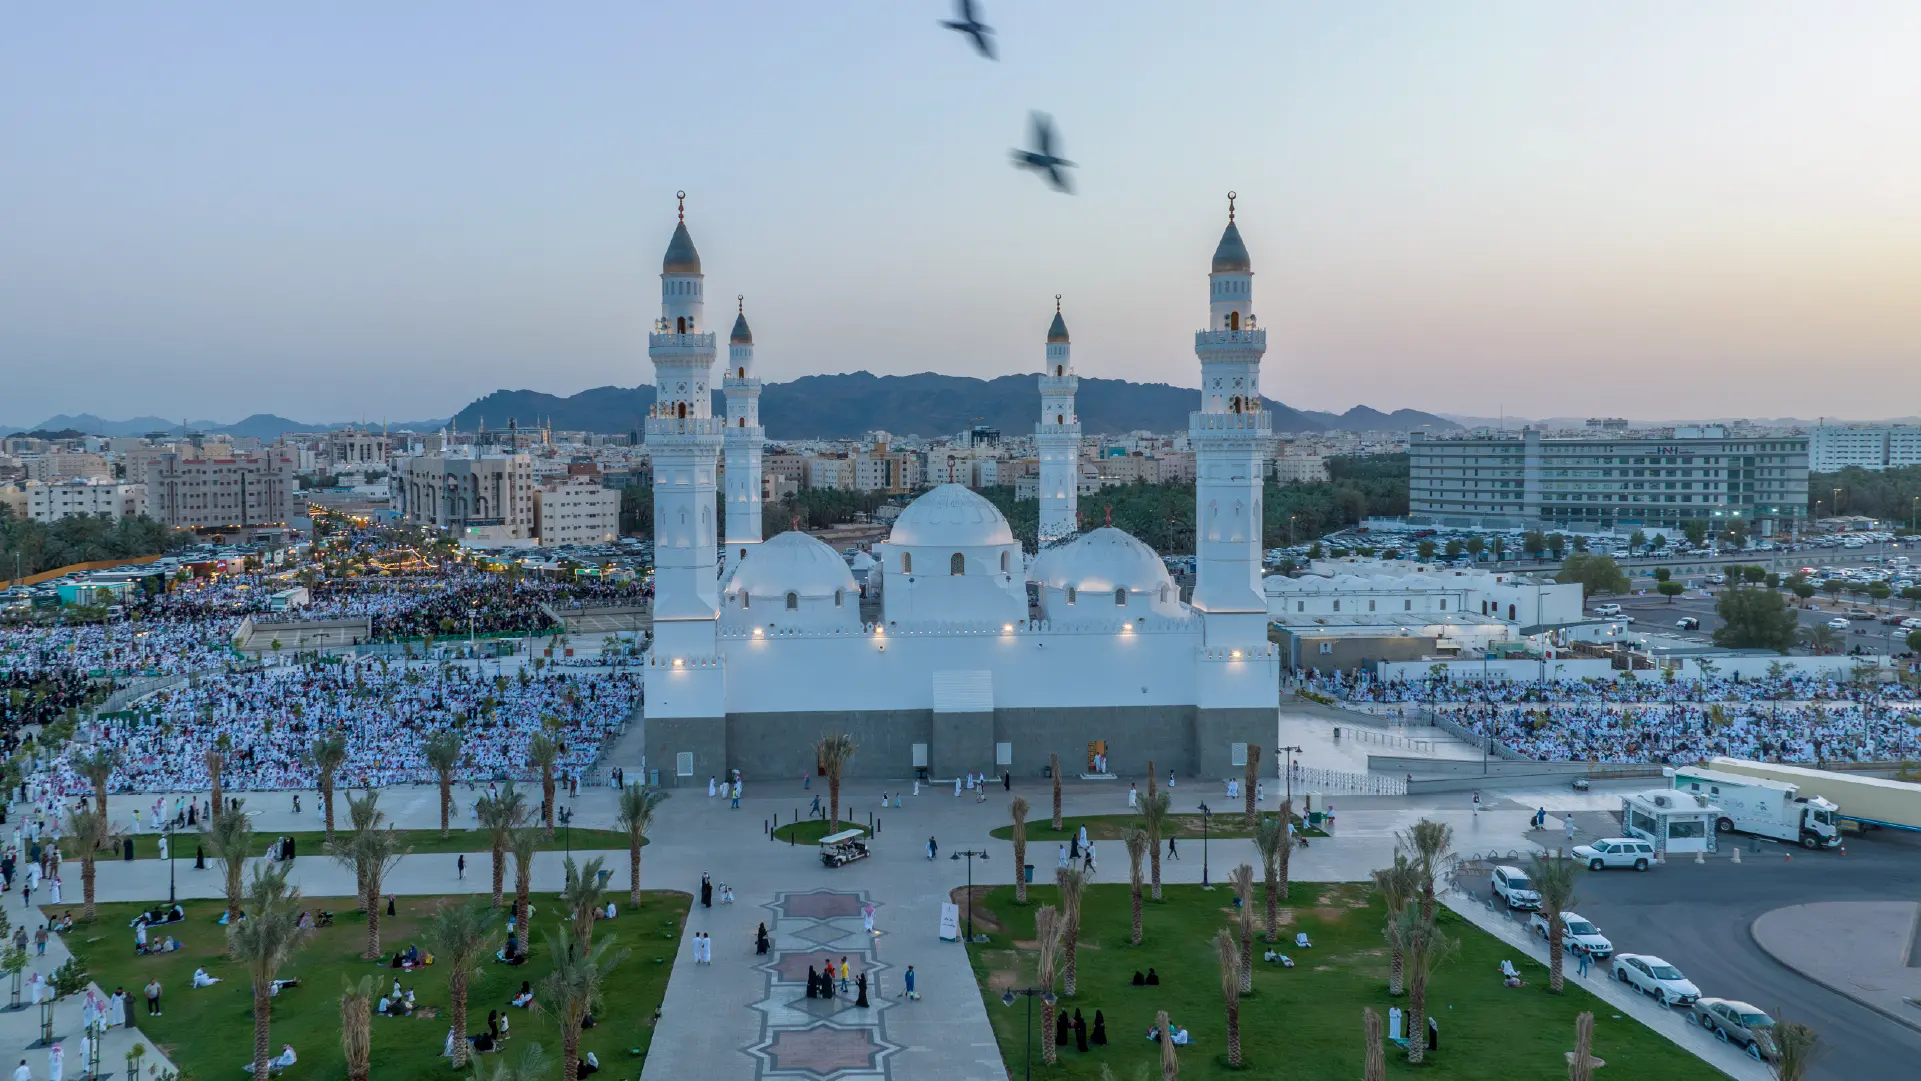
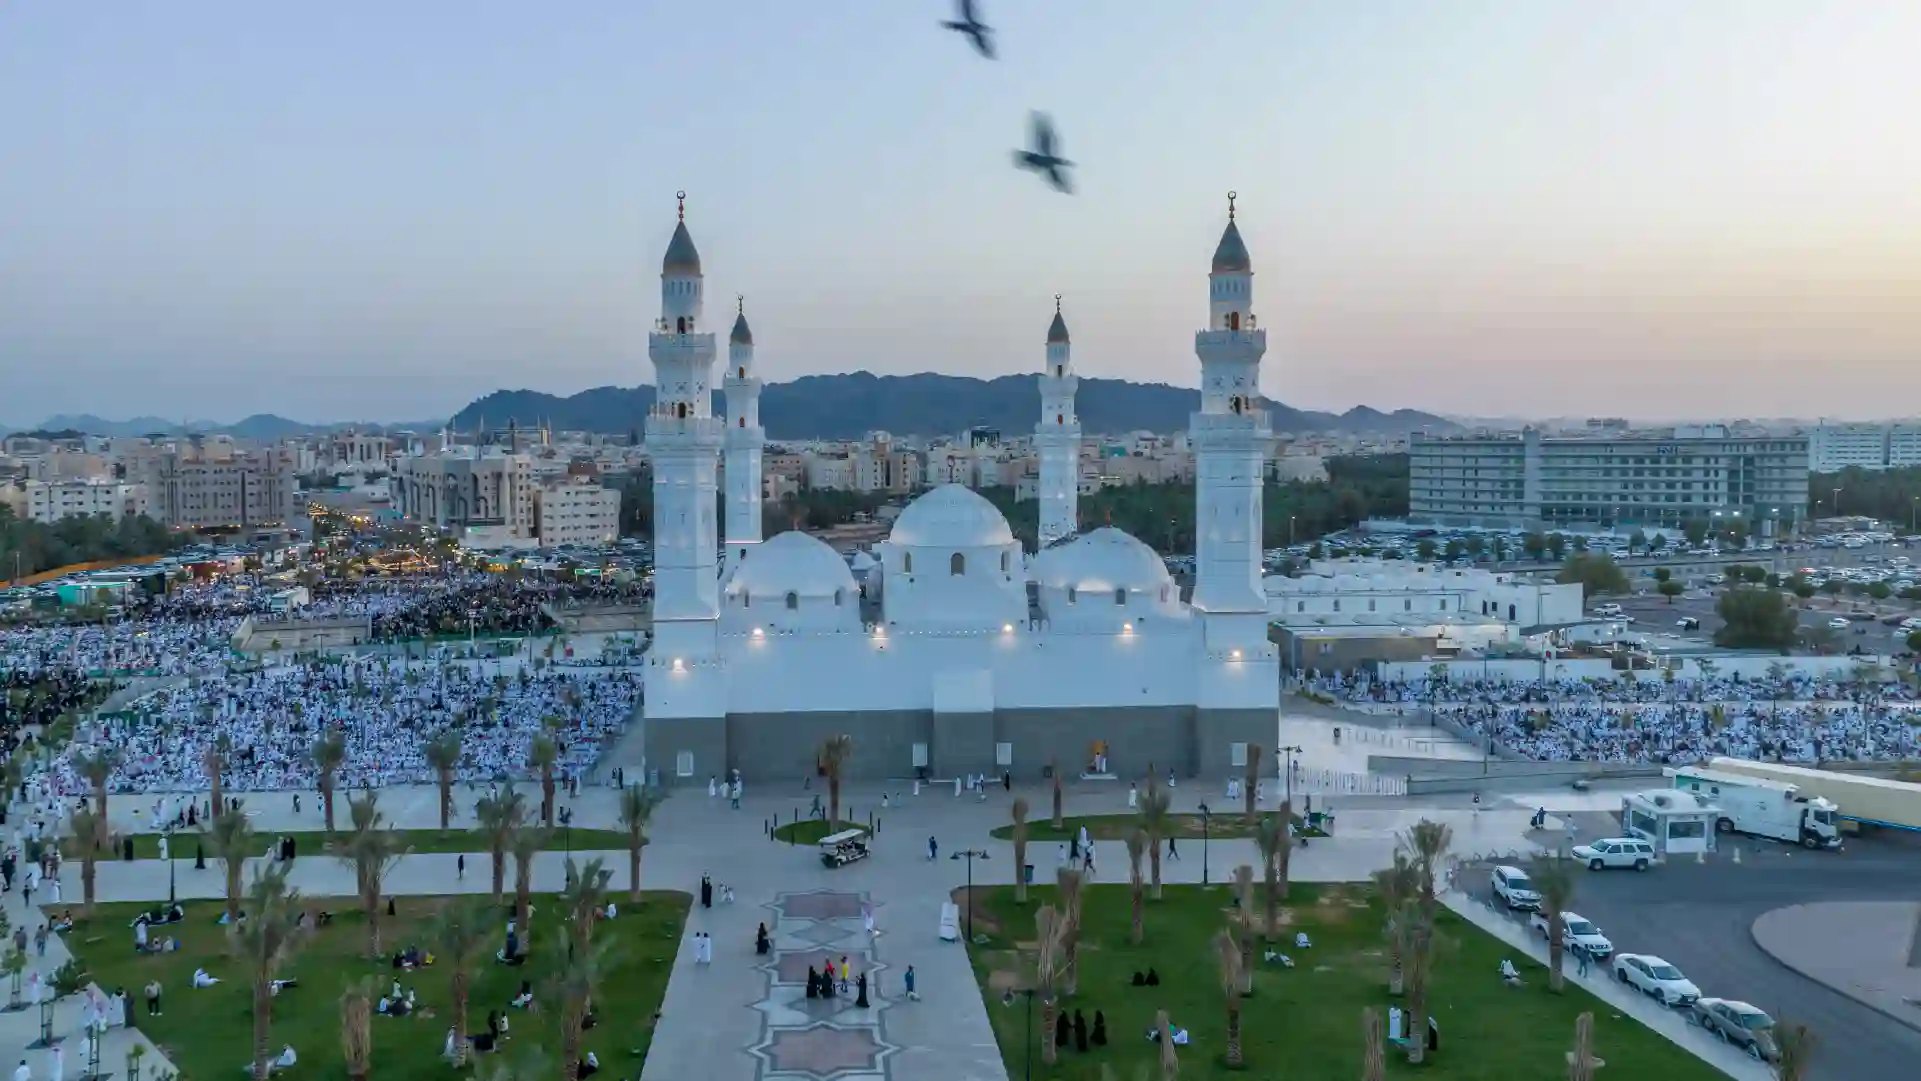
reduce more img

diff --git a/src/app/page.tsx b/src/app/page.tsx
@@ -47,11 +47,11 @@ const Latest = dynamic(() => import("../components/home/Latest"), {
 	loading: () => <Loading />,
 });
 
-import { Dialog, DialogContent } from "@/components/ui/dialog";
-import { Button } from "@/components/ui/button";
+// import { Dialog, DialogContent } from "@/components/ui/dialog";
+// import { Button } from "@/components/ui/button";
 import axios from "axios";
 import { API_BASE_URL } from "@/lib/apiConfig";
-import parse from "html-react-parser";
+// import parse from "html-react-parser";
 
 export default function Home() {
 	const [lang, setLang] = useState("en");

diff --git a/src/components/home/NewDestinations.jsx b/src/components/home/NewDestinations.jsx
@@ -54,6 +54,7 @@ export default function NewDestinations() {
 						alt={language === "ar" ? "جديد" : "New"}
 						className="w-16 h-16"
 						style={{ objectFit: "contain" }}
+						loading="lazy"
 					/>
 					<h2 className="text-3xl md:text-4xl font-bold text-white ">
 						{t.title}

diff --git a/src/components/home/Explore.jsx b/src/components/home/Explore.jsx
@@ -1,6 +1,6 @@
 'use client'
 import Link from 'next/link';
-import exp from '/public/exp.png'
+import exp from '/public/exp.webp'
 import React, { useEffect, useState } from 'react';
 import { motion } from 'framer-motion';
 
